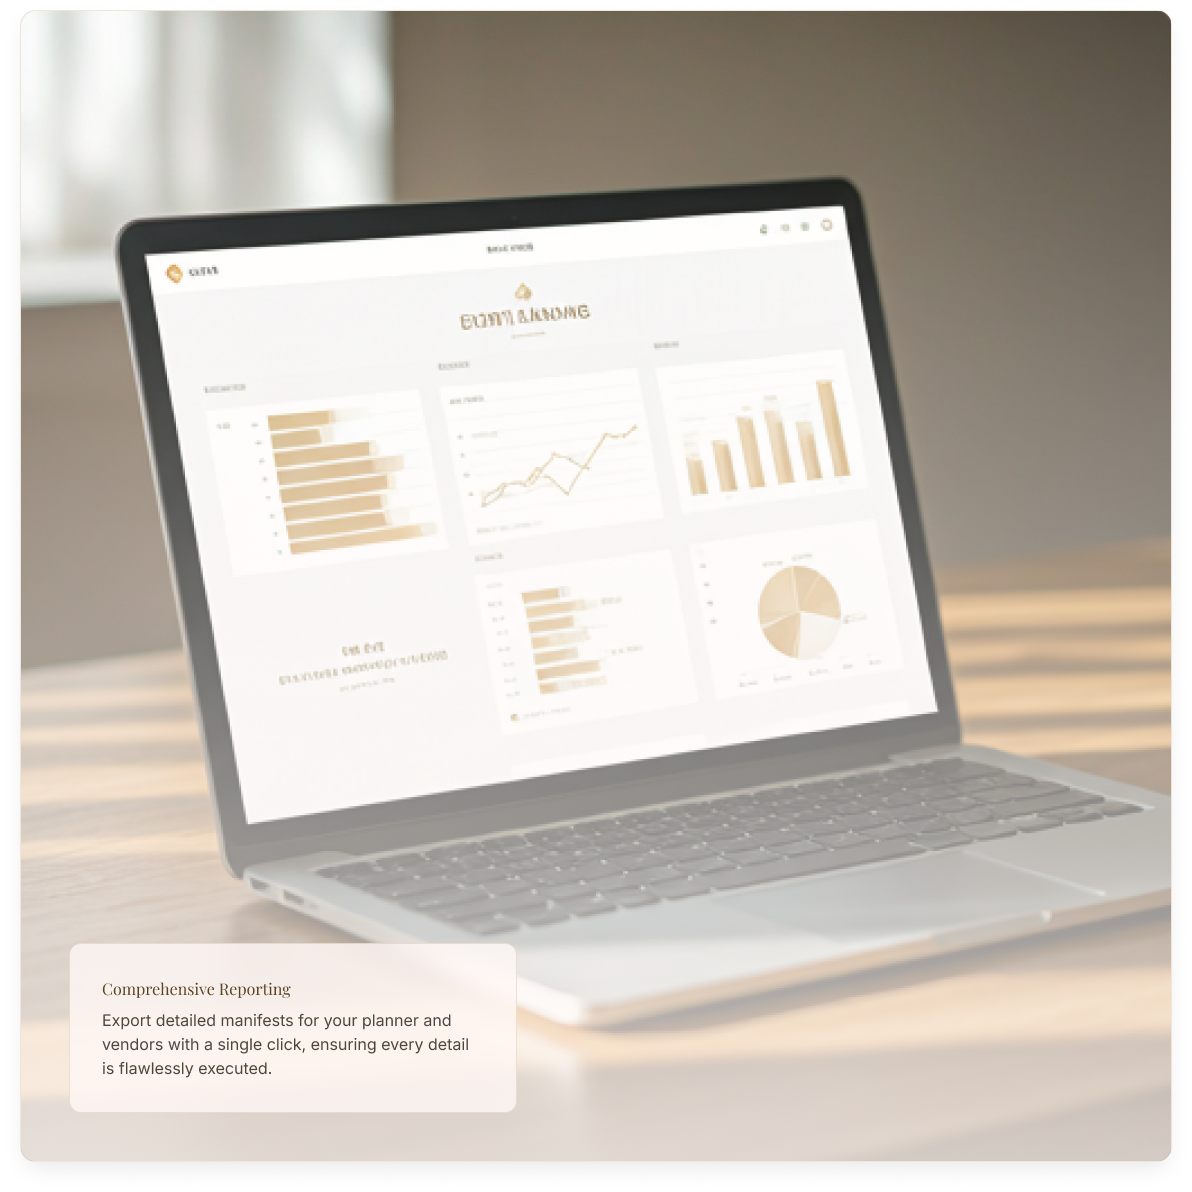
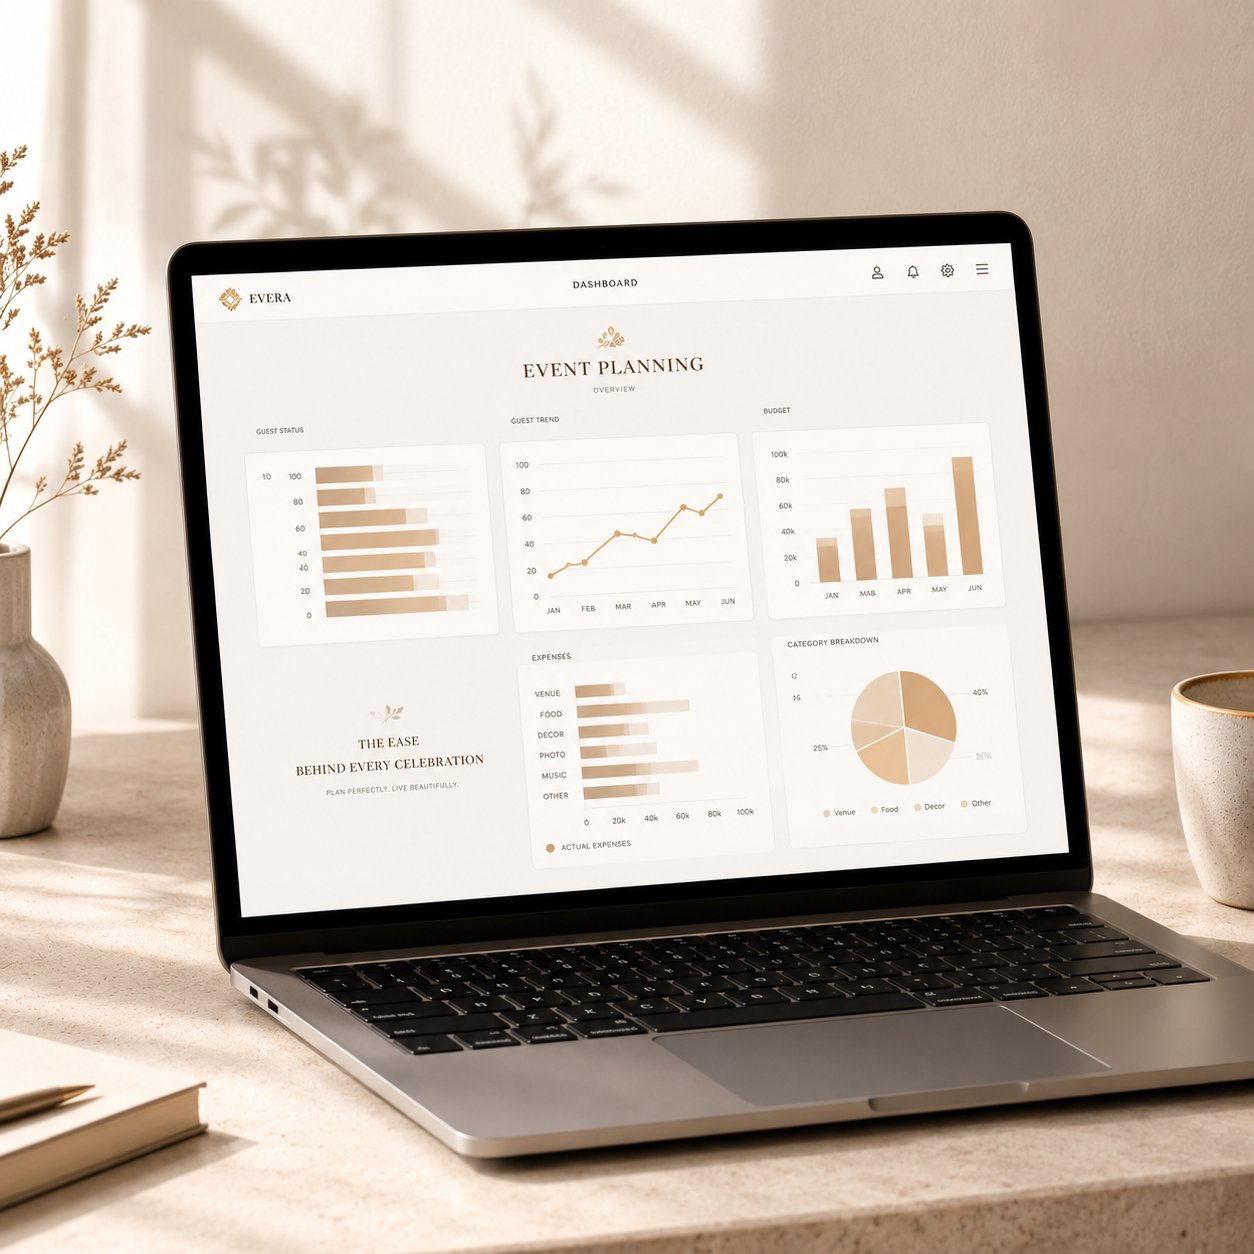
fix: update FeaturesPage content and improve layout
- Refined text formatting for better readability in FeaturesPage.
- Added new content for comprehensive reporting section.
- Updated image layout and added a descriptive overlay for enhanced user experience.
- Replaced existing images with updated versions for analytics and tab features.

diff --git a/client/src/pages/FeaturesPage.tsx b/client/src/pages/FeaturesPage.tsx
@@ -52,8 +52,8 @@ export function FeaturesPage() {
               </h2>
               <p className="mt-5 font-body text-base leading-relaxed text-[#6d625a] md:text-[17px]">
                 Craft an ethereal first impression. Our builder brings the tactile beauty of
-                letterpress and foil stamping to the digital realm. Fine-tune every typographic detail
-                and layout with absolute creative freedom.
+                letterpress and foil stamping to the digital realm. Fine-tune every typographic
+                detail and layout with absolute creative freedom.
               </p>
               <ul className="mt-8 space-y-5">
                 {studioFeatures.map(({ icon: Icon, label }) => (
@@ -63,7 +63,9 @@ export function FeaturesPage() {
                       strokeWidth={1.5}
                       aria-hidden
                     />
-                    <span className="font-body text-[15px] text-[#3e2723] md:text-base">{label}</span>
+                    <span className="font-body text-[15px] text-[#3e2723] md:text-base">
+                      {label}
+                    </span>
                   </li>
                 ))}
               </ul>
@@ -95,9 +97,9 @@ export function FeaturesPage() {
                   Intelligent Guest Lists
                 </h3>
                 <p className="mt-3 font-body text-sm leading-relaxed text-[#6d625a] md:text-[15px]">
-                  Organize your attendees with grace. Group by household, manage plus-ones seamlessly,
-                  and segment lists for auxiliary events like rehearsal dinners and post-wedding
-                  brunches.
+                  Organize your attendees with grace. Group by household, manage plus-ones
+                  seamlessly, and segment lists for auxiliary events like rehearsal dinners and
+                  post-wedding brunches.
                 </p>
                 <div className="mt-8 divide-y divide-[#e8dfd6] border-t border-[#e8dfd6]">
                   <div className="flex items-center justify-between py-4">
@@ -129,8 +131,8 @@ export function FeaturesPage() {
                 </h3>
                 <p className="mt-3 font-body text-sm leading-relaxed text-[#6d625a] md:text-[15px]">
                   Watch the responses gather effortlessly. Collect dietary restrictions, song
-                  requests, and mailing addresses through a beautifully branded, frictionless flow for
-                  your guests.
+                  requests, and mailing addresses through a beautifully branded, frictionless flow
+                  for your guests.
                 </p>
                 <div className="mt-8 flex items-center justify-around rounded-xl bg-[#f0ebe6] px-6 py-8">
                   <div className="text-center">
@@ -166,19 +168,28 @@ export function FeaturesPage() {
                 Insights at a Glance
               </h2>
               <p className="mt-5 font-body text-base leading-relaxed text-[#6d625a] md:text-lg">
-                Make informed decisions with beautifully visualized data, from catering headcounts to
-                accommodation requirements.
+                Make informed decisions with beautifully visualized data, from catering headcounts
+                to accommodation requirements.
               </p>
             </div>
 
             <div className="mx-auto mt-12 max-w-4xl md:mt-14">
-              <div className="overflow-hidden rounded-2xl shadow-[0_20px_60px_rgba(0,0,0,0.08)]">
+              <div className="relative overflow-hidden rounded-2xl shadow-[0_20px_60px_rgba(0,0,0,0.08)]">
                 <img
                   src="/img/features/analytics_lap.png"
                   alt="Analytics dashboard on laptop"
                   className="h-auto w-full object-cover"
                   loading="lazy"
                 />
+                <div className="absolute bottom-4 left-4 max-w-[min(100%-2rem,340px)] rounded-2xl bg-[#FFF8F5] p-5 shadow-[0_12px_32px_rgba(31,27,24,0.1)] sm:bottom-6 sm:left-6 sm:p-6 md:bottom-8 md:left-8 md:max-w-[380px]">
+                  <h3 className="font-display text-xl leading-snug text-[#8b734b] md:text-2xl">
+                    Comprehensive Reporting
+                  </h3>
+                  <p className="mt-2 font-body text-sm leading-relaxed text-on-surface md:text-[15px]">
+                    Export detailed manifests for your planner and vendors with a single click,
+                    ensuring every detail is flawlessly executed.
+                  </p>
+                </div>
               </div>
             </div>
           </div>
@@ -225,16 +236,28 @@ export function FeaturesPage() {
                     </span>
                     <div className="flex w-24 shrink-0 justify-center sm:w-28 md:w-32">
                       {row.standard ? (
-                        <Check className="h-[1.125rem] w-[1.125rem] text-[#3e2723]" strokeWidth={1.75} />
+                        <Check
+                          className="h-[1.125rem] w-[1.125rem] text-[#3e2723]"
+                          strokeWidth={1.75}
+                        />
                       ) : (
-                        <X className="h-[1.125rem] w-[1.125rem] text-[#3e2723]" strokeWidth={1.75} />
+                        <X
+                          className="h-[1.125rem] w-[1.125rem] text-[#3e2723]"
+                          strokeWidth={1.75}
+                        />
                       )}
                     </div>
                     <div className="relative z-10 flex w-24 shrink-0 justify-center sm:w-28 md:w-32">
                       {row.premium ? (
-                        <Check className="h-[1.125rem] w-[1.125rem] text-[#3e2723]" strokeWidth={1.75} />
+                        <Check
+                          className="h-[1.125rem] w-[1.125rem] text-[#3e2723]"
+                          strokeWidth={1.75}
+                        />
                       ) : (
-                        <X className="h-[1.125rem] w-[1.125rem] text-[#3e2723]" strokeWidth={1.75} />
+                        <X
+                          className="h-[1.125rem] w-[1.125rem] text-[#3e2723]"
+                          strokeWidth={1.75}
+                        />
                       )}
                     </div>
                   </li>
